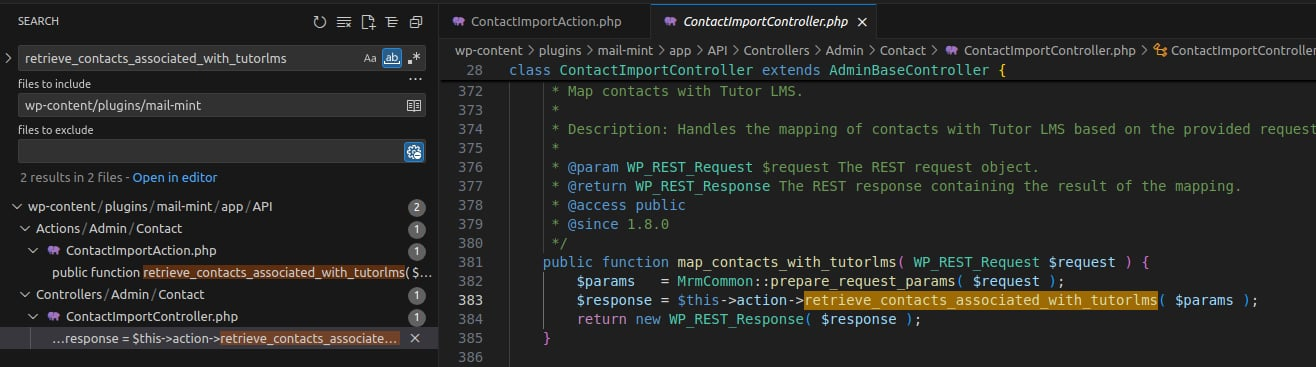
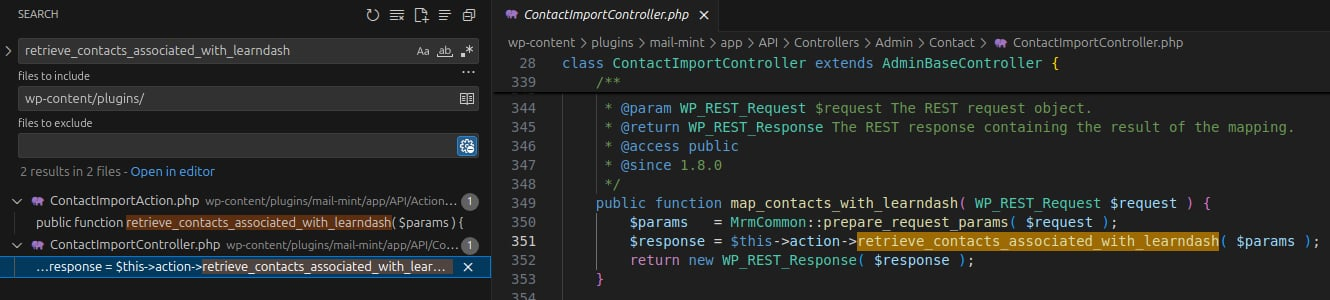
change content

Changed region(s): [[0.0, 0.12, 1.0, 1.0], [0.2492, 0.0, 0.6543, 0.09], [0.0, 0.03, 0.0623, 0.09]]

diff --git a/_posts/2025-09-04-CVE-2025-58604.md b/_posts/2025-09-04-CVE-2025-58604.md
@@ -90,24 +90,26 @@ public static function get_wp_users_by_learndash_with_limit_offset($courses, $nu
 
 ![Patch Diff](assets/img/posts/2025-09-04-CVE-2025-58604/diff.png)
 
+Trước khi được truyền vào câu query 
+
 ### How it work?
 Lỗ hổng nằm trong hàm `get_wp_users_by_learndash_with_limit_offset($courses, $number = 5, $offset = 0)` của class `Import`. Để xác định nơi nó được gọi, ta tìm kiếm với tự khóa `get_wp_users_by_learndash_with_limit_offset` trong thư mục chứa plugin.
 
 ![Search Import](assets/img/posts/2025-09-04-CVE-2025-58604/search_import.png)
 
 Kết quả cho thấy hàm này được gọi trong:
-- `retrieve_contacts_associated_with_tutorlms()`
-- `perform_tutorlms_user_import()`
+- `retrieve_contacts_associated_with_learndash()`
+- `perform_learndash_user_import()`
 
 thuộc class `ContactImportAction` trong file **/app/API/Actions/Admin/Contact/ContactImportAction.php**.
 
-Tiếp theo, để xác định nơi `retrieve_contacts_associated_with_tutorlms()` được sử dụng, ta tìm kiếm từ khóa `retrieve_contacts_associated_with_tutorlms` trong thư mục plugin.
+Tiếp theo, để xác định nơi `retrieve_contacts_associated_with_learndash()` được sử dụng, ta tìm kiếm từ khóa `retrieve_contacts_associated_with_learndash` trong thư mục plugin.
 
 ![Search 1](assets/img/posts/2025-09-04-CVE-2025-58604/search_1.png)
 
-Hàm này được gọi trong `map_contacts_with_tutorlms()` thuộc class `ContactImportController` trong file **/app/API/Controllers/Admin/Contact/ContactImportController.php**.
+Hàm này được gọi trong `map_contacts_with_learndash()` thuộc class `ContactImportController` trong file **/app/API/Controllers/Admin/Contact/ContactImportController.php**.
 
-Tiếp tục tìm kiếm từ khóa `map_contacts_with_tutorlms` để xem hàm này được đăng ký ở đâu:
+Tiếp tục tìm kiếm từ khóa `map_contacts_with_learndash` để xem hàm này được đăng ký ở đâu:
 
 ![Search 2](assets/img/posts/2025-09-04-CVE-2025-58604/search_2.png)
 
@@ -143,16 +145,23 @@ class ContactImportRoute extends AdminRoute {
 
 **Luồng gọi hàm**:
 
-1. `POST /wp-json/mrm/v1/contacts/import/learndash/map` được gửi tới REST API.
-2. `map_contacts_with_tutorlms()` là callback nhận request.
-3. Callback gọi `retrieve_contacts_associated_with_tutorlms()`.
-4. `retrieve_contacts_associated_with_tutorlms()` gọi `get_wp_users_by_learndash_with_limit_offset()`, nơi lỗ hổng SQL Injection xảy ra.
-5. **Response** trả về JSON chứa `formatted_users` + `total_users`
+1. `POST /wp-json/mrm/v1/contacts/import/learndash/map` được gửi tới REST API cùng tham số bắt buộc `selectedCourses`.
+2. `map_contacts_with_learndash(WP_REST_Request $request)` là callback được gọi:
+- Nhận `$request` làm tham số đầu vào.
+- Lấy các tham số của `$request` chuyển thành mảng `$params`
+3. Callback gọi `retrieve_contacts_associated_with_learndash()` với đối số là `$params`.
+4. `retrieve_contacts_associated_with_learndash()` gọi `get_wp_users_by_learndash_with_limit_offset($courses, $number = 5, $offset = 0)`:
+- `$courses` = `$params['selectedCourses']`, `$number` = `5`
+- `$keys` là một mảng được tạo ra bằng cách lấy tất cả giá trị `value` trong `$courses`, sau đó ghép chuỗi theo mẫu `course_{COURSE_ID}_access_from`
+- Trước khi đưa vào câu query, mảng `$keys` được nối thành một chuỗi bằng hàm `implode()`. Nếu `$keys` chỉ có một phần tử, kết quả của `implode()` chính là giá trị chuỗi của phần tử đó.
+5. Thực thi query, trả về JSON chứa `formatted_users` + `total_users`
 
 ## Exploit
-Sau khi phân tích, ta thấy tham số `selectedCourses` được truyền trực tiếp từ người dùng vào query chứa SQLi
+Sau khi phân tích, ta thấy tham số `selectedCourses` được xử lý qua nhiều logic trước khi truyền vào query chứa SQLi, quan trọng ta vẫn kiểm soát được giá trị của key `value`.
 
 **POST request qua BurpSuite**:
+
+Ta gửi request với một key duy nhất => dễ dàng kiểm soát câu query
 
 ![Get all user info](assets/img/posts/2025-09-04-CVE-2025-58604/request_success.png)
 
